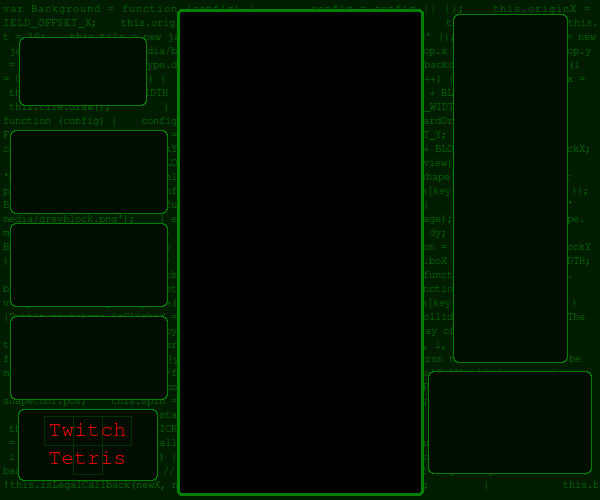
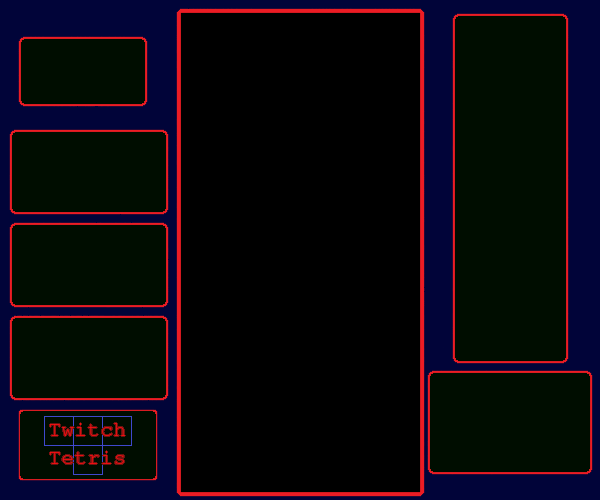
UI Changes

Changed region(s): [[0.0, 0.0, 1.0, 1.0]]

diff --git a/styles.css b/styles.css
@@ -1,7 +1,7 @@
 /** PAGE ELEMENTS **/
 .menuCell
 {
-    background-color: #001d00;
+    background-color: #010439;
     vertical-align: top;
     height: 600px;
     color: #000000;
@@ -11,9 +11,9 @@
     margin: 0 5;
     font-size: 15px;
     font-family: VT323;
-    color: #008000;
+    color: #e80f11;
     background-color: #000d00;
-    border: 1px solid #008000;
+    border: 1px solid #e80f11;
     border-radius: 5px;
     padding: 5px;
     width: 140;
@@ -35,10 +35,10 @@
 {
     font-family: VT323;
     margin: 0 auto;
-    border: 1px solid #008000;
+    border: 1px solid #e80f11;
     border-radius: 5px;
     background-color: #000d00;
-    color: #008000;
+    color: #e80f11;
     padding: 5px;
     width: 140px;
     font-size: 18px;
@@ -54,10 +54,10 @@
     font-family: VT323;
     text-align: center;
     margin: 0 auto;
-    border: 1px solid #008000;
+    border: 1px solid #e80f11;
     border-radius: 5px;
     background-color: #000d00;
-    color: #008000;
+    color: #e80f11;
     padding: 5px;
     width: 140px;
     font-size: 18px;
@@ -79,7 +79,7 @@ a.bareLink:visited
 .selectedMenuItem
 {
     color: #000d00;
-    background-color: #008000;
+    background-color: #e80f11;
 }
 
 .menuItem:hover
@@ -97,9 +97,9 @@ body
     margin: 5 5;
     font-size: 16px;
     font-family: VT323;
-    color: #008000;
+    color: #e80f11;
     background-color: #000d00;
-    border: 1px solid #008000;
+    border: 1px solid #e80f11;
     border-radius: 5px;
     padding: 5px;
     width: 580;
@@ -107,7 +107,7 @@ body
 
 .contentCell
 {
-    background-color: #001d00;
+    background-color: #010439;
     color: #c0c0c0;
     font-family: VT323;
     vertical-align: top;
@@ -157,19 +157,19 @@ body
     margin: 0 auto;
     text-align: center;
     border-collapse: collapse;
-    border: 1px solid #008000;
-    color: #008000;
+    border: 1px solid #e80f11;
+    color: #e80f11;
     background-color: #000d00;
 }
 .controlsTable td
 {
-    border-color: #008000;
+    border-color: #e80f11;
 }
 
 
 .gameCanvas
 {
-    border: 1px solid #008000;
+    border: 1px solid #e80f11;
 }
 
 .resTitle
@@ -182,13 +182,13 @@ body
     margin: 0 auto;
     font-size: 26px;
     border-collapse: collapse;
-    border: 1px solid #008000;
-    color: #008000;
+    border: 1px solid #e80f11;
+    color: #e80f11;
     background-color: #000d00;
 }
 .resultsTable td
 {
-    border: 1px solid #008000;
+    border: 1px solid #e80f11;
     padding: 10px;
     width: 200px;
 }
@@ -198,13 +198,13 @@ body
     margin: 0 auto;
     font-size: 18px;
     border-collapse: collapse;
-    border: 1px solid #008000;
-    color: #008000;
+    border: 1px solid #e80f11;
+    color: #e80f11;
     background-color: #000d00;
 }
 .highScoreTable td
 {
-    border: 1px solid #008000;
+    border: 1px solid #e80f11;
     width: 200px;
 }
 .highScoreTableHeader
@@ -243,7 +243,7 @@ body
     font-size:20px;
     position: absolute;
     height: 0px; width: 200px;
-    color: #008800;
+    color: #3f48cc;
     line-height: 100%;
     z-index: 2;
 }
@@ -277,7 +277,7 @@ body
     font-family: VT323;
     font-size:20px;
     position: absolute;
-    color: #008800;
+    color: #3f48cc;
     line-height: 100%;
     z-index: 2;
     top: 60px; left: 195px;
